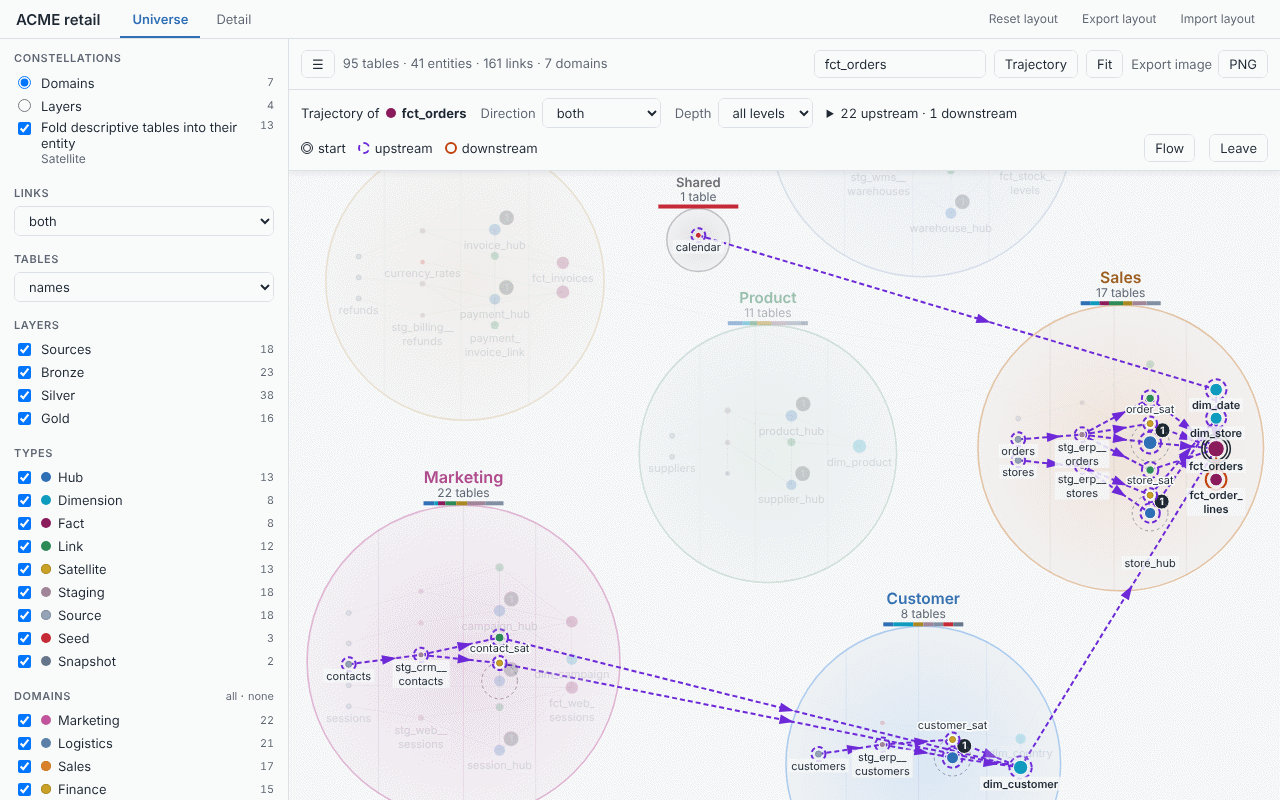
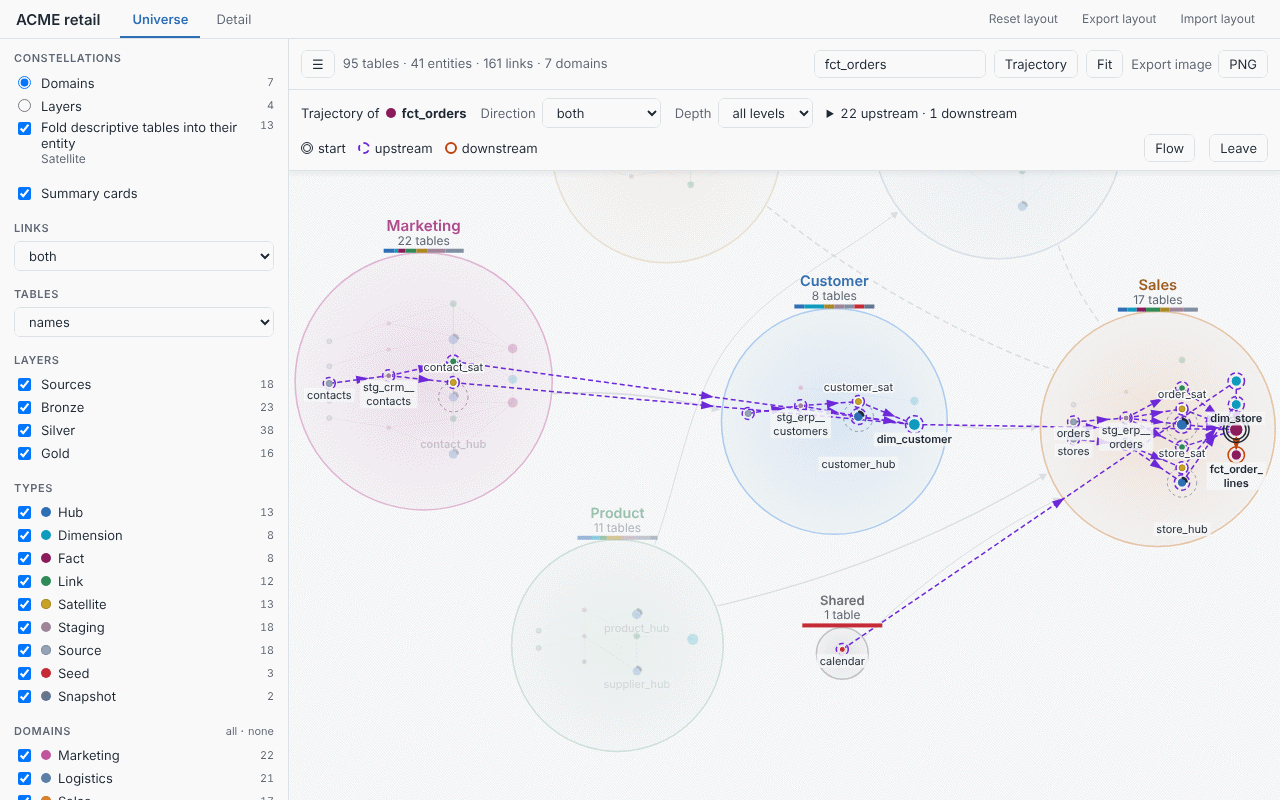
docs(docs): record milestone M8.6, retake the universe screenshots
Progress holds what the switch does, the placement change that came
with it, the measures without cards on the large project and the
known limit (routes still cross some labels in the stack of source
systems). The five universe screenshots are retaken on the new
placement; the roadmap marks M8.6 done.

Milestone: M8.6

Claude-Session: https://claude.ai/code/session_01SqA5qnr2e821Rq5c737Dbk

diff --git a/docs/progress.md b/docs/progress.md
@@ -39,7 +39,7 @@ Maintained by the `/build-roadmap` skill. Branch: a feature branch per session, 
 | M8.4 Source systems apart, readable routes | done | `a64d0dc` (+ tests `5349e2b`, review fixes `45d2cb7`) | Built per `docs/architecture/2026-11-12-m8.4-source-systems-routes.md` (D-065, D-066, D-067), brief § 8. **Measures on the large project** (links `both`, 1280 × 800): routes crossing a constellation they do not start from or end at, at Fit: **24 of 45 before** (straight centre-to-centre routes crossing another card; 22 crossing a disc) → **0 after**; also 0 at the stars scale, with All routes, with the focus on each constellation, in layer mode, and at 360 px with the strongest routes (one `blocked` route at 360 px with All routes; on the 1,500-table payload with all 210 routes about 140 stay `blocked`: no way round exists, they are drawn and flagged). Routes drawn: 9 of 15 at Fit (15 once the system routes are bundled through the group card), 20 of 45 at the stars scale. Cards at Fit: 6 (5 business + 1 group card "7 systems · 504 tables") instead of 12. Fit scale 0.160; route computation 3.1 ms at Fit, 2.7 ms at stars; frame 0.6 ms / 9.5 ms; filter change 43 ms; page open 413 ms; page 943 kB before the review fixes (+ about 4 kB after). Flow order of business domains, mean x by rank: 1042, 1799, 2585, 3113, 3896 (account → vehicle → auction → claim → activity). **Payloads**: each universe domain gains `system` (last key, `false` written out; `true` on `raw` and `staging` of the data_vault reference case and `staging` of star_schema); +59 to +75 bytes. Reference pages regenerated **twice**: once for the feature (+49 kB of assets per page; `none` 199,891 → 249,381 bytes) and once for the review fixes (assets only, about +4 kB). The large test project gained business-to-business lineage (`FLOW` in `tests/large_project.py`; lineage count unchanged at 1,360). The golden acme fixture was regenerated (placement along the flow; stage 6 px shorter since the meta line may wrap). Review loop 1: two blocking findings fixed ("No domain" in the every-domain guard; direction on relations-only routes). Suites: default 901 passed / 4 skipped; browser 547 (459 before; one duplicate test removed in the second review), 0 xfailed. **Points settled without the user, to review**: the rule's gate "the config gives a role to at least one kind" (a no-preset page never has source systems) and "never every domain"; `system` on a domain rule overrides whatever resolved the domain; acme_retail's Shared domain gets `system: false` (a lone calendar seed), so the example has no source system; two routes per constellation instead of the brief's three (three gave a hairball at the stars scale: 27 of 45); route ink `#7b8494`, 1–3 px; the All routes choice is not remembered and has no config key; keyboard focus goes through the Domains rows and the text summary; `flowX` 0.1 (on acme_retail ranks 0 and 1 keep swapped mean x until 0.25, but no directed route runs right to left); business domains are re-placed for every project (unpinned domains move against pre-M8.4 pages; pins and saved arrangements win). **Known limits**: at 360 px on the large project some constellation labels sit detached from their disc (up to about 200 px) and cards drop levels; acme_retail at 360 px shows fewer card rows than in M8.3 (placement spreads the domains); the page shows no count of `blocked` routes (hook only); with All routes at the stars scale parallel system routes bunch into bands; the panel dots of source systems keep their domain colours while the canvas is neutral. **Brief findings 5 and 6**: 5 (layers grouping: the raw vault as one disc, no flow between layers) is partly answered: folding (M8.2) halves the raw vault's stars and the layer card (M8.3) gives its composition by domain, but no flow is drawn between the layers and a relation-driven placement of the raw vault is out of scope; 6 (inside a domain, relations are long lines crossing every column) is partly answered: links of folded tables are no longer drawn inside the domain, but hubs and links are still placed by layer band, not by their relations. |
 | M8.5 Detail skeleton | done | `06de3f1` (+ tests `38b0b1c`, review fixes `42297c8`) | Built per `docs/architecture/2026-11-12-m8.5-detail-skeleton.md` (D-068 to D-072; measurement table and deviations in its § Built), brief § 9. **Shape measured** (1280 × 800, `vehicle`, three inputs; rule of D-071): O1 pack + compress aspect 0.14, refused; **O2 dot with imposed rows, TB: aspect 1.32, 384 ms cold, names 4.45 px at Fit, 6.74 px after three notches**, chosen; O2-LR aspect 0.73 with more crossings; O3 grid + neato 2.5 s, and not finishing on the larger cases; O4 neato and O5 fdp accepted on aspect, names 2.3–3.5 px (after three notches); `sfdp` is not in this Viz.js. **Measures on `vehicle` at 1280 × 800**: tables drawn **283 before (271 own + 12 dashed of other groups) → 148 in the skeleton (136 own + 12 dashed)**; relations drawn 273 → 138; aspect **0.11 → 1.32**; layout 0.38–0.42 s cold / 0.14–0.19 s warm (budget 5 s); names **0.64 px at Fit before → 4.45–4.48 px**, 0.97 → 6.74 px after three wheel notches, 17–18 px after a double-click on a hub (focus: itself, its satellite, its 4 links, the 4 hubs across); "All groups" 367 drawn of 788 in 0.46 s; the 1,500-table case 1.1 s (budget 15 s); page size +14,656 bytes for the feature. **Payload**: each detail entity gains `parent` (last key; null in every reference case), +14 bytes per entity; reference pages regenerated **twice**: once for the feature (`none` 253,443 → 268,099 bytes) and once more for the review fixes (assets only, +765 bytes). Acme's detail DOT is identical to the pre-M8.5 one for every group (`tests/fixtures/acme_retail/detail-dot/`). Review loop 1: two blocking findings fixed (a folded table with no relation was absent from its parent's focus; the fold wording is written in both views). Suites: default 916 passed / 4 skipped; browser 617 passed, run serially as documented (547 before). **Points settled without the user, to review**: **D-072, awaiting the user's confirmation**: the `data_vault` preset's `select` is unchanged, dimensions and facts stay out of the detail by default (adding them would draw an unconnected second block and push `vehicle` to 149 own tables; reversible in one line of `src/dbtscope/presets/data_vault.yml`); the brief's "136 tables or fewer" is read as the group's own tables (12 dashed tables of other groups are drawn too: 148); threshold 60 is a constant, no config key; one fold choice for both views; the folded row's wording ("+ 3 folded tables · Satellite", at most two kinds); a parent in another group or outside the select scope gives no parent in the detail; the focus rule through connectors applies to every page with a connector kind; the skeleton shape applies whenever the scope can fold, even when a kind filter leaves no folded row. **Known limits**: names reach 6.74 px after three wheel notches, under the designer's 8 px goal and above its 6 px floor (the brief's "one double-click **or** three notches" is met by the double-click: 17 px); 120 edge crossings in the `vehicle` skeleton; "All groups" of the large project is a structure overview only (names 2.4 px at Fit); at 360 px the skeleton at Fit is not legible without zooming; the layout depends on the window's aspect, so a position dragged at one window size may overlap at another; titles of tables from other groups can overflow their header (older than M8.5); browser timing tests are reliable only in the documented serial run. **Brief finding 7** (the detail of a large group is an unreadable strip): answered. Findings 5 and 6: as written at M8.4 (partly answered, no flow between layers, no relation-driven placement inside a domain). |
 | M8 close: audit and screenshots | done | `cb44f5c`, `fd7ecc3` | `/audit` on 2026-11-13 (`docs/architecture/2026-11-13-audit.md`): 3 blocking, 22 to fix, 8 suggestions; every blocking and to-fix finding fixed except the one left to the user (the kind of a table decided once for the universe and once for the detail), follow-up in the report. A budget test of a few milliseconds now keeps the first quiet measurement of three (`test_trajectory_perf.steady`), so the whole suite also passes in parallel with coverage (1,533 passed, 4 skipped); no budget changed. The summary's `fold:` row says `441 tables folded into 251 parents` (the page's 428 entities are another count). Retaking the screenshots showed two defects, fixed with D-073: Fit keeps 8 px of margin and a detail drawing at its Fit follows its area when the toolbar wraps; a bare constellation label no longer prints over a card or another label. `docs/images/`: the seven images of the example retaken, `large-overview.png` and `large-detail-skeleton.png` added from the generated large project (recipe in `docs/images/README.md`); `large-stars.png` left out for the 1.2 MB budget. Reference pages regenerated twice more (audit fixes, D-073), assets only, payloads byte-identical. Suites: default 916 passed / 4 skipped; browser 637, run serially |
-| M8.6 Summary cards can be switched off | todo | | Asked by the user on 2026-11-14. Design per `docs/architecture/2026-11-14-m8.6-cards-switch.md` (D-074, supersedes D-063's rejected "control to switch cards off"): checkbox `#u-cards`, key `dbtscope-cards:<title>`, `universe.cards` / `defaults.cards` (one payload regeneration: `,"cards":true` after `"fold"` in each reference payload) |
+| M8.6 Summary cards can be switched off | done | | Asked by the user on 2026-11-14 ("the info tiles that appear when zooming out should be easy to remove"). Built per `docs/architecture/2026-11-14-m8.6-cards-switch.md` (D-074, which supersedes the option "a control to switch cards off" that D-063 had rejected). A **Summary cards** checkbox in the universe panel, under the fold control, ticked by default; the viewer's choice is kept in localStorage `dbtscope-cards:<title>` (only when it differs from the page default, never exported); optional config key `universe.cards` (default true, allowed in presets) opens a project without cards. One switch in the page: `summaryAlpha` returns 0 when cards are off, so no card or group card is drawn at any zoom, source systems are their own neutral constellations, routes end at disc edges and are not bundled; toggling runs no layout and does not move the camera. Payload: the universe defaults gain `cards` (last key, `true`): +13 bytes per reference payload. Reference pages regenerated twice (feature, then the review loop: assets only). Review loop: with cards off the labels of the stacked source systems printed over the neighbouring discs. Constellations now keep room for their label (`roomOf`, `stackSystems`; the room comes from the Fit scale on a fixed reference stage, so the placement is deterministic and the same with cards on or off): **the placement of unpinned constellations changes for every project** (pins and saved arrangements win; the golden acme fixture was regenerated, Fit scale 0.461 → 0.474). With cards off a label is a soft obstacle for routes and a label whose place is taken moves round its disc. Measures on the large project, cards off, Fit, 1280×800: 933 stars; 20 of 45 routes, 0 blocked, 0 crossing a disc; labels on another disc 5 → 0; route–label crossings 22 → about 14 (routes threading the stack of systems: known limit); Fit scale 0.147 (cards on: also 0.147, 6 cards at level `rows`, 0 crossings); frame 3 ms; `routesMs` 2–4 ms (the 1,500-table payload keeps M8.4's ≤ 30 ms, measured 7–13 ms with 210 routes). `docs/images/`: the five universe images retaken (folder 1,071,819 bytes); an image of the large project without cards does not fit the 1.2 MB budget. The ui-designer's design pass was skipped (the note fixes label, position and strings); the reviewer approved. Suites: default 921 passed / 4 skipped; browser 667 passed, run serially (637 before) |
 
 ## Resume
 

diff --git a/docs/roadmap.md b/docs/roadmap.md
@@ -262,7 +262,7 @@ Brief: `docs/briefs/2026-11-12-m8-synthesis.md` (read it in full). Asked by the 
 - **M8.3 — Summary cards.** (Done.) (D-063, D-064.) At overview scale a constellation is a card (counts per layer and kind, main core tables), stars when zooming in.
 - **M8.4 — Source systems apart, readable routes.** (Done.) (D-065, D-066, D-067.) Domains made only of technical tables are set apart upstream; routes are curved from edge to edge, the strongest only by default, all of a domain's on hover.
 - **M8.5 — Detail skeleton.** (Done.) (D-068 to D-072.) A large group opens as core and connector tables with their folded tables as one row, in a layout that fits the drawing area.
-- **M8.6 — Summary cards can be switched off.** (D-074.) Asked by the user on 2026-11-14: a **Summary cards** checkbox in the universe panel (ticked by default, remembered per viewer, default `universe.cards`); unticked, the universe shows stars at every zoom, source systems as their own constellations and unbundled routes. Design note `docs/architecture/2026-11-14-m8.6-cards-switch.md`.
+- **M8.6 — Summary cards can be switched off.** (Done.) (D-074.) Asked by the user on 2026-11-14: a **Summary cards** checkbox in the universe panel (ticked by default, remembered per viewer, default `universe.cards`); unticked, the universe shows stars at every zoom, source systems as their own constellations and unbundled routes. Design note `docs/architecture/2026-11-14-m8.6-cards-switch.md`.
 
 Done when: each phase meets the "Done when" list of its section of the brief and the definition of done of `CLAUDE.md`.
 

diff --git a/docs/images/README.md b/docs/images/README.md
@@ -44,3 +44,5 @@ uv run dbtscope --project-dir "$SCRATCH/large" --no-parse --no-open --offline -o
 `large-overview.png` is the page after 3 s, pointer parked at the bottom right (links `both` is the default); `large-detail-skeleton.png` is the Detail tab with the group `vehicle` selected, once the export buttons are enabled. A third image, one business domain framed by a double-click on its card (stars with badges), was left out: it did not fit the 1.2 MB budget.
 
 The seven M6.1 images were retaken on 2026-11-13 (M8: roles, fold, summary cards, the detail's skeleton); the two large-project images are new. The detail images keep their states, only the kind colours and the Types order changed. All nine were retaken again the same day after D-073 (Fit keeps 8 px on every side; a bare constellation label no longer prints over a card or another label).
+
+Retaken on 2026-11-14 for M8.6 (D-074, D-066's M8.6 addition): the constellations keep room for their label, so every universe image moved, and the panel of each now shows the **Summary cards** checkbox, ticked, under the fold choice. `universe-overview.png`, `universe-domain.png`, `trajectory.png`, `small-screen.png` and `large-overview.png` were retaken; `flow.png`, `detail-vault.png`, `detail-focus.png` and `large-detail-skeleton.png` are pixel-identical to a fresh capture and kept. A further image (the large project with Summary cards unticked) was left out: at 176 kB it would take the folder over 1.2 MB.
